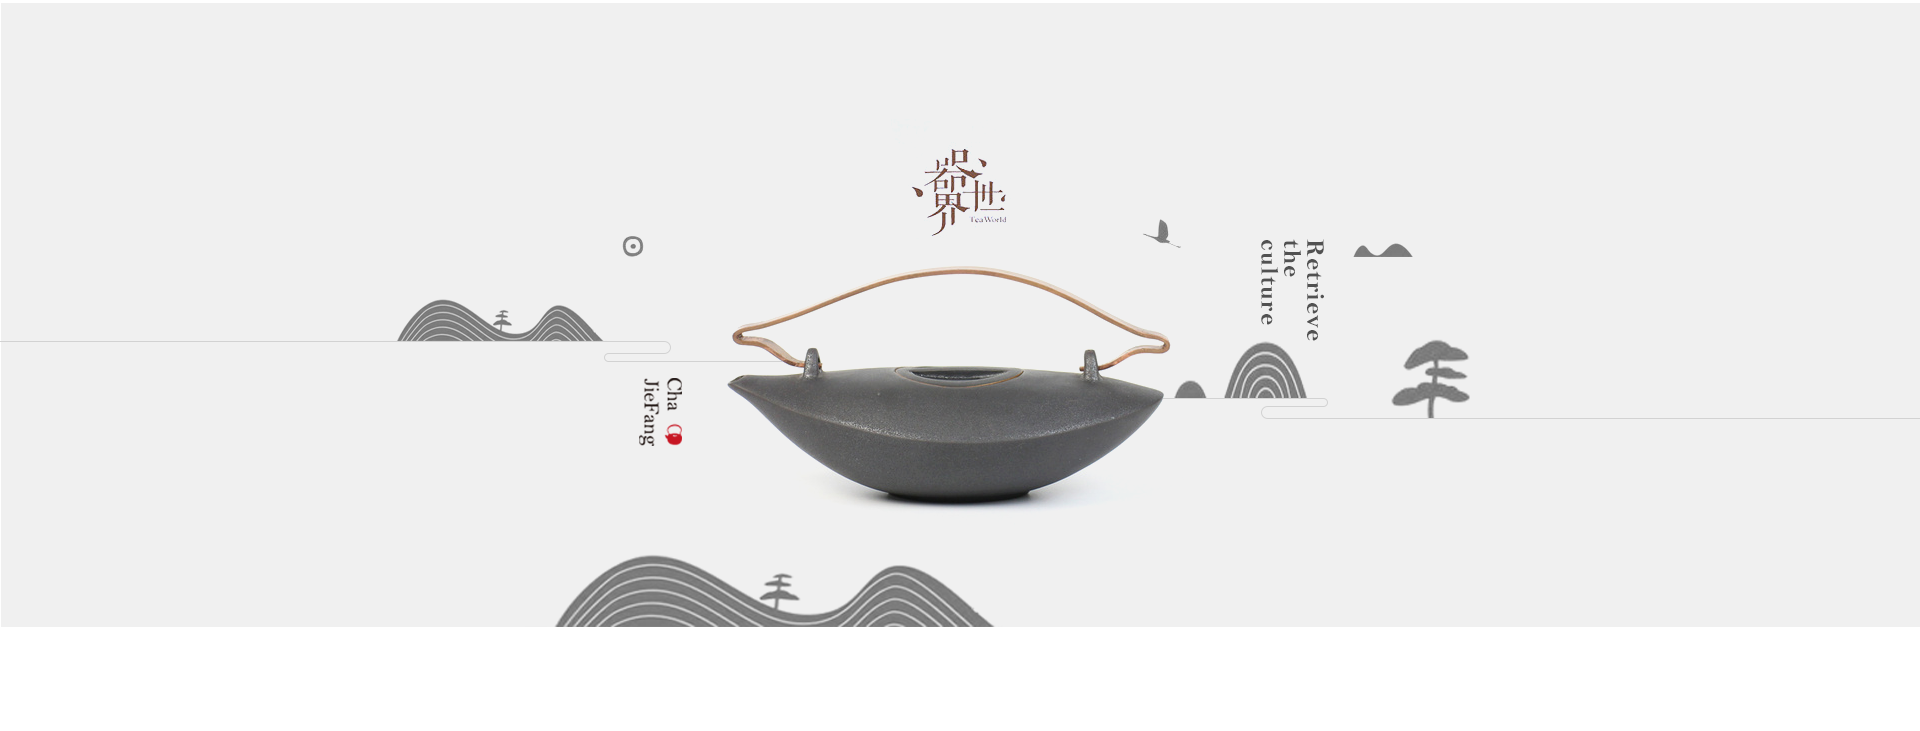
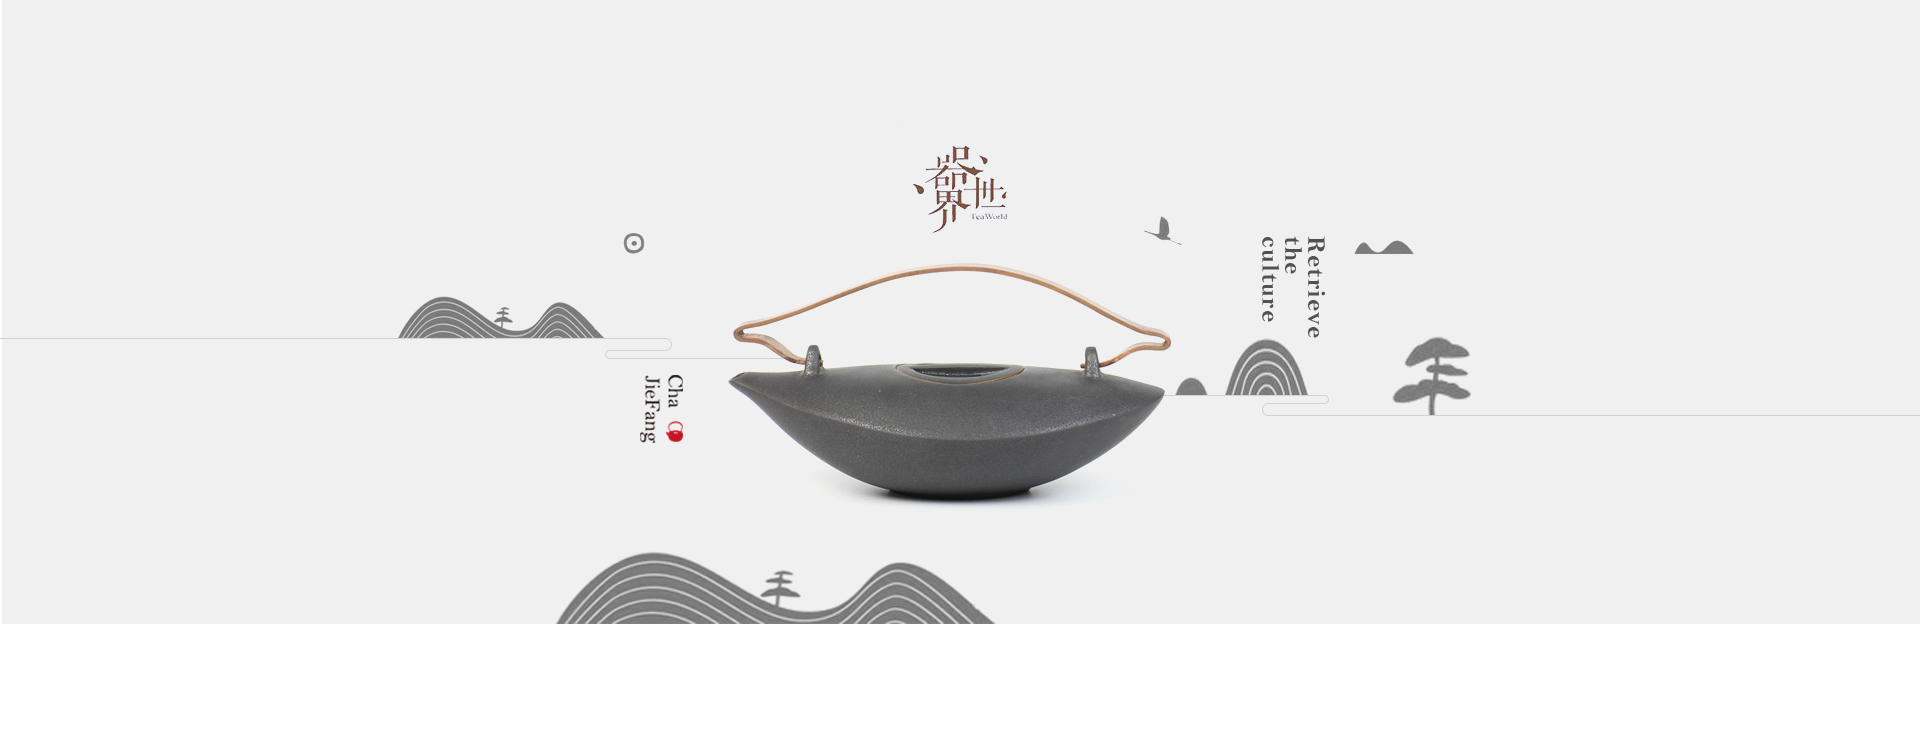
'04.19.19:19'

diff --git a/css/jl-index.css b/css/jl-index.css
@@ -59,12 +59,10 @@
     position: absolute;
     top: 0;
     left: 0;
-    display: block;
     height: auto;
     background: #fff; }
     .jl-topbanner a img {
-      display: block;
-      height: auto; }
+      display: block; }
   .jl-topbanner a:first-of-type {
     display: block;
     z-index: 10; }
@@ -126,7 +124,9 @@ a:hover {
   z-index: 100; }
 
 .xcontent {
-  margin-top: 84px; }
+  margin-top: 84px;
+  position: relative;
+  background: #F0EFEB; }
 
 .jlx-topbar {
   width: 100%;
@@ -175,6 +175,25 @@ a:hover {
     font-size: 48px;
     font-family: '楷体'; }
 
+/*jlx-menu*/
+.jlx-nav {
+  width: 100%;
+  height: 165px;
+  border: 1px solid #888888;
+  background: #fff;
+  box-shadow: 1px 1px 6px 0 rgba(0, 0, 0, 0.5);
+  padding: 0;
+  margin: 0; }
+  .jlx-nav .jlx-menu {
+    text-align: center;
+    line-height: 81px;
+    margin: 0; }
+    .jlx-nav .jlx-menu a {
+      color: #5b5b5b;
+      border: 1px solid #888888;
+      padding: 0;
+      font-size: 16px; }
+
 /*jlx-topbanner*/
 .jlx-topbanner {
   padding: 0;
@@ -186,12 +205,10 @@ a:hover {
     position: absolute;
     top: 0;
     left: 0;
-    display: block;
     height: auto;
     background: #fff; }
     .jlx-topbanner a img {
-      display: block;
-      height: auto; }
+      display: block; }
   .jlx-topbanner a:first-of-type {
     display: block;
     z-index: 10; }

diff --git a/css/jl-index.scss b/css/jl-index.scss
@@ -66,11 +66,9 @@
         position: absolute;
         top: 0;
         left: 0;
-        display: block;
         height: auto;
         img{
             display: block;
-            height: auto;
         };
         background: #fff;
     }
@@ -144,6 +142,8 @@ a{
 }
 .xcontent{
     margin-top: 84px;
+    position: relative;
+    background: #F0EFEB;
 }
 .jlx-topbar{
     width: 100%;
@@ -209,6 +209,29 @@ a{
         };
     }
 }
+/*jlx-menu*/
+.jlx-nav{
+    width: 100%;
+    height: 165px;
+    border: 1px solid #888888;
+    background: #fff;
+    box-shadow: 1px 1px 6px 0 rgba(0,0,0,0.5);
+    padding: 0;
+    margin: 0;
+    .jlx-menu{
+        text-align: center;
+        line-height: 81px;
+        margin: 0;
+        a{
+            color: #5b5b5b;
+            border: 1px solid #888888;
+            padding: 0;
+            font: {
+                size: 16px;
+            };
+        }
+    }
+}
 /*jlx-topbanner*/
 .jlx-topbanner{
     padding: 0;
@@ -220,11 +243,9 @@ a{
         position: absolute;
         top: 0;
         left: 0;
-        display: block;
         height: auto;
         img{
             display: block;
-            height: auto;
         };
         background: #fff;
     }

diff --git a/jl-index.html b/jl-index.html
@@ -89,6 +89,18 @@
         			<a href="">茶找幸福</a>
         		</section>
         	</section>
+			<section class="jlx-nav">
+				<section class="row jlx-menu">
+					<a href="" class="col-xs-4">关于我们</a>
+					<a href="" class="col-xs-4">茶具分类</a>
+					<a href="" class="col-xs-4">特色介绍</a>
+				</section>
+				<section class="row jlx-menu">
+					<a href="" class="col-xs-4">藏品展示</a>
+					<a href="" class="col-xs-4">茶道文化</a>
+					<a href="" class="col-xs-4">联系我们</a>
+				</section>
+			</section>
         	<section class="row">
 				<section class="col-xs-12 jlx-topbanner">
 					<a href=""><img src="img/jlx-banner-1.png" class="img-responsive"/></a>

diff --git a/js/jl-index.js b/js/jl-index.js
@@ -8,10 +8,7 @@ $(document).ready(function(){
 		}else if(current<=768){
 			let topbhx=$('.jlx-topbanner a').height();
 			$('.jlx-topbanner').height(topbhx);
-		}else if(current==350){
-			
 		}
-		
 	});
 	$(window).triggerHandler('resize');
 	//topbanner的轮播
